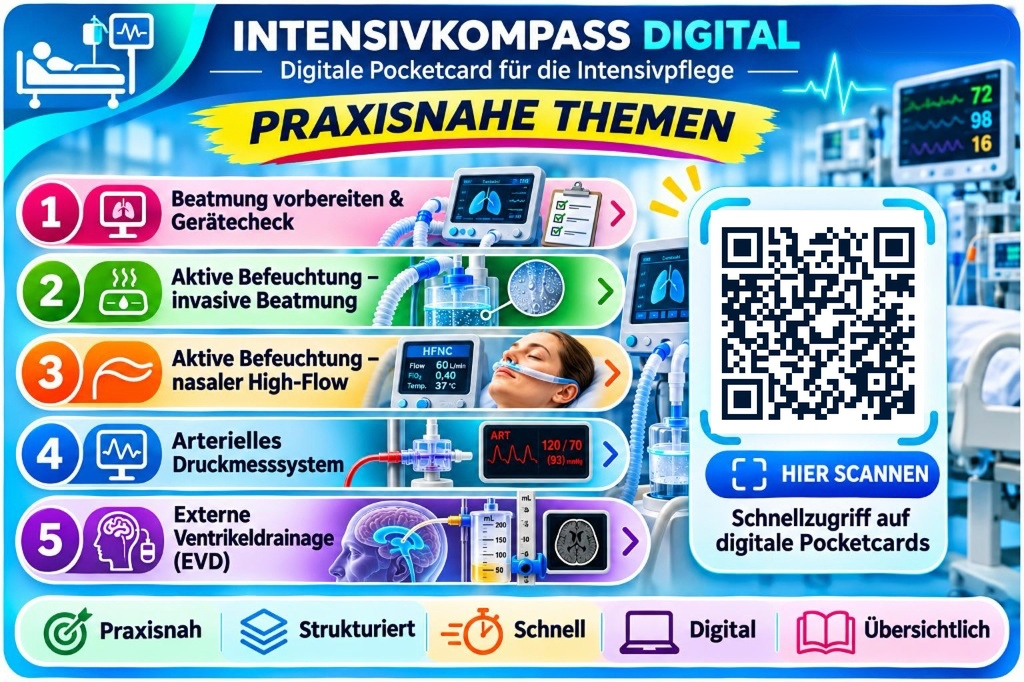
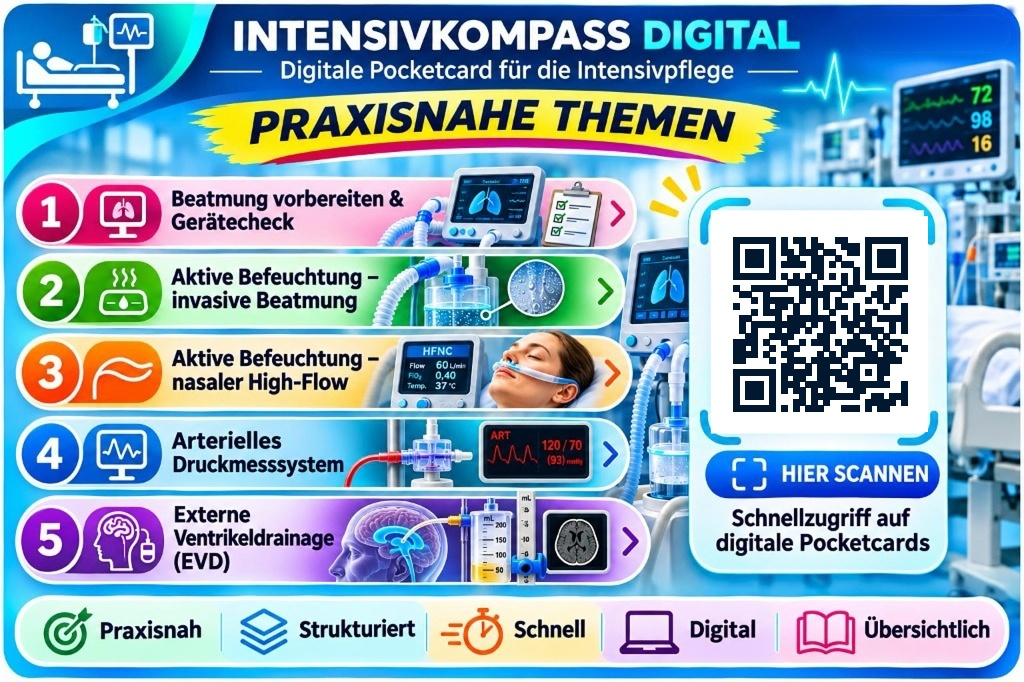
fix: replace card QR with verified scannable code for umf-nursing-standards and remove top action buttons

Changed region(s): [[0.6875, 0.3079, 0.9062, 0.6158]]

diff --git a/js/app.js b/js/app.js
@@ -3697,7 +3697,7 @@ function exportStandardA4Pdf(std, showToast) {
 function StandardA4PrintSheet({ standard }) {
   const baseOrigin = (typeof window !== 'undefined' && window.location && window.location.origin && !window.location.origin.includes('localhost'))
     ? `${window.location.origin}${window.location.pathname}`
-    : 'https://intensivpflege-standards.web.app/';
+    : 'https://umf-nursing-standards.web.app/';
   const normalizedBase = baseOrigin.endsWith('/') ? baseOrigin : `${baseOrigin}/`;
   const websiteDirectUrl = `${normalizedBase}#/${standard.id}`;
 
@@ -4023,7 +4023,7 @@ function BeautifiedPocketcard({ standard, onCopy, onDownloadQr, onDownloadPdf })
 
   const websiteDirectUrl = (typeof window !== 'undefined' && window.location && window.location.origin)
     ? `${window.location.origin}${window.location.pathname}#/${standard.id}`
-    : `https://intensivpflege-standards.web.app/#/${standard.id}`;
+    : `https://umf-nursing-standards.web.app/#/${standard.id}`;
 
   return (
     <div className="mb-4">
@@ -5059,7 +5059,7 @@ function AllQrCodesView({ standards, onSelectStandard, showToast }) {
 function UniversalCardInteractiveCard({ isAtm = true, onSelectStandard }) {
   const baseOrigin = (typeof window !== 'undefined' && window.location && window.location.origin)
     ? `${window.location.origin}${window.location.pathname}`
-    : 'https://intensivpflege-standards.web.app/';
+    : 'https://umf-nursing-standards.web.app/';
   const normalizedBase = baseOrigin.endsWith('/') ? baseOrigin : `${baseOrigin}/`;
   const portalUrl = `${normalizedBase}#/quick-hub`;
 
@@ -5143,7 +5143,7 @@ function UniversalCardInteractiveCard({ isAtm = true, onSelectStandard }) {
 function UniversalCardA4Native({ onSelectStandard }) {
   const baseOrigin = (typeof window !== 'undefined' && window.location && window.location.origin)
     ? `${window.location.origin}${window.location.pathname}`
-    : 'https://intensivpflege-standards.web.app/';
+    : 'https://umf-nursing-standards.web.app/';
   const normalizedBase = baseOrigin.endsWith('/') ? baseOrigin : `${baseOrigin}/`;
   const portalUrl = `${normalizedBase}#/quick-hub`;
 
@@ -5249,7 +5249,7 @@ function UniversalCardView({ standards, onSelectStandard, showToast }) {
 
   const cardUrl = (typeof window !== 'undefined' && window.location)
     ? `${window.location.origin}${window.location.pathname}#/quick-hub`
-    : 'https://intensivpflege-standards.web.app/#/quick-hub';
+    : 'https://umf-nursing-standards.web.app/#/quick-hub';
   const portalUrl = cardUrl;
   const isA4 = effectiveFormat === 'a4';
   const shareTitle = isA4
@@ -5523,13 +5523,18 @@ function UniversalCardView({ standards, onSelectStandard, showToast }) {
               </span>
               <span
                 className="badge rounded-pill fw-bold text-uppercase d-inline-flex align-items-center gap-1 shadow-2xs"
+                role="button"
+                tabIndex={0}
+                onClick={() => setCardFormat(f => f === 'atm' ? 'a4' : 'atm')}
+                title="Format umschalten: Pocketcard / DIN A4"
                 style={{
                   backgroundColor: 'rgba(56, 189, 248, 0.22)',
                   color: '#e0f2fe',
                   border: '1px solid rgba(56, 189, 248, 0.42)',
                   fontSize: '0.67rem',
                   letterSpacing: '0.3px',
-                  padding: '3px 8.5px'
+                  padding: '3px 8.5px',
+                  cursor: 'pointer'
                 }}
               >
                 <i className={`bi ${effectiveFormat === 'a4' ? 'bi-file-earmark-text text-warning' : 'bi-credit-card-2-front text-info'}`}></i>
@@ -5548,80 +5553,6 @@ function UniversalCardView({ standards, onSelectStandard, showToast }) {
               {effectiveFormat === 'a4' ? 'Intensivkompass Digital (DIN A4)' : 'Intensivkompass Digital (Pocketcard)'}
             </h4>
           </div>
-        </div>
-      </div>
-
-      {/* Top Format Switcher & Actions (Desktop only - hidden on mobile view) */}
-      <div className="d-none d-md-flex flex-wrap justify-content-between align-items-center mb-3 gap-2 no-print mx-auto" style={{ maxWidth: effectiveFormat === 'a4' ? '960px' : '640px' }}>
-        <div className="btn-group shadow-sm rounded-pill p-1 bg-white border" role="group">
-          <button
-            type="button"
-            className={`btn btn-sm ${cardFormat === 'atm' ? 'btn-primary text-white shadow-sm fw-bold' : 'btn-light border-0 text-secondary'}`}
-            style={{ fontSize: '0.78rem', minHeight: '36px', padding: '0.3rem 0.85rem' }}
-            onClick={() => setCardFormat('atm')}
-          >
-            <i className="bi bi-credit-card-2-front me-1"></i>
-            <span>Pocketcard</span>
-          </button>
-          <button
-            type="button"
-            className={`btn btn-sm ${cardFormat === 'a4' ? 'btn-primary text-white shadow-sm fw-bold' : 'btn-light border-0 text-secondary'}`}
-            style={{ fontSize: '0.78rem', minHeight: '36px', padding: '0.3rem 0.85rem' }}
-            onClick={() => setCardFormat('a4')}
-          >
-            <i className="bi bi-file-earmark-text me-1"></i>
-            <span>DIN A4</span>
-          </button>
-        </div>
-
-        <div className="d-flex align-items-center gap-1.5 flex-wrap">
-          <button
-            className="btn btn-primary btn-sm rounded-pill px-3 py-1.5 fw-bold shadow-sm d-flex align-items-center justify-content-center gap-1"
-            style={{ minHeight: '36px', fontSize: '0.78rem' }}
-            onClick={() => handlePrint(cardFormat)}
-          >
-            <i className="bi bi-printer-fill"></i>
-            <span>Drucken</span>
-          </button>
-          <button
-            className="btn btn-outline-secondary rounded-pill px-3 py-1.5 shadow-sm btn-sm fw-semibold d-flex align-items-center justify-content-center gap-1 bg-white"
-            style={{ minHeight: '36px', fontSize: '0.78rem' }}
-            onClick={() => downloadPdf('atm')}
-            title="3× Pocketcard auf DIN A4 herunterladen"
-          >
-            <i className="bi bi-file-earmark-pdf"></i>
-            <span>PDF</span>
-          </button>
-          <button
-            type="button"
-            className="btn btn-warning text-dark fw-bold rounded-pill px-3 py-1.5 btn-sm d-flex align-items-center justify-content-center gap-1"
-            style={{ minHeight: '36px', fontSize: '0.78rem', cursor: 'not-allowed', opacity: 0.55 }}
-            disabled
-            aria-disabled="true"
-            title="Hub ist deaktiviert"
-          >
-            <i className="bi bi-box-arrow-up-right"></i>
-            <span>Hub</span>
-          </button>
-        </div>
-      </div>
-
-      {/* Format Specification Hint Badge (Desktop only - hidden on mobile view) */}
-      <div className="text-center no-print mb-2 d-none d-md-block">
-        <div className="badge rounded-pill bg-white text-secondary border shadow-2xs px-3 py-1.5 fw-medium d-inline-flex align-items-center gap-1.5">
-          {effectiveFormat === 'atm' ? (
-            <>
-              <i className="bi bi-credit-card-2-front-fill text-primary"></i>
-              <span className="text-dark fw-bold">Intensivkompass Digital – Pocketcard</span>
-              <span className="text-muted d-none d-sm-inline">&bull; Doppelseitig laminiert &bull; Kitteltaschen-Standard &bull; Ultra-HD</span>
-            </>
-          ) : (
-            <>
-              <i className="bi bi-file-earmark-pdf-fill text-danger"></i>
-              <span className="text-dark fw-bold">Intensivkompass Digital – DIN A4 Format (Ultra-HD 300 DPI)</span>
-              <span className="text-muted d-none d-sm-inline">&bull; Selbe Pocketcard-Systematik &bull; Maximale Schärfe &bull; Stationsaushang</span>
-            </>
-          )}
         </div>
       </div>
 

diff --git a/index.html b/index.html
@@ -55,7 +55,7 @@
   <script src="js/parser.js?v=20261106-02"></script>
 
   <!-- Main React App Script -->
-  <script type="text/babel" src="js/app.js?v=20261106-10"></script>
+  <script type="text/babel" src="js/app.js?v=20261106-11"></script>
 
   <!-- Service Worker Cleanup Script -->
   <script>
